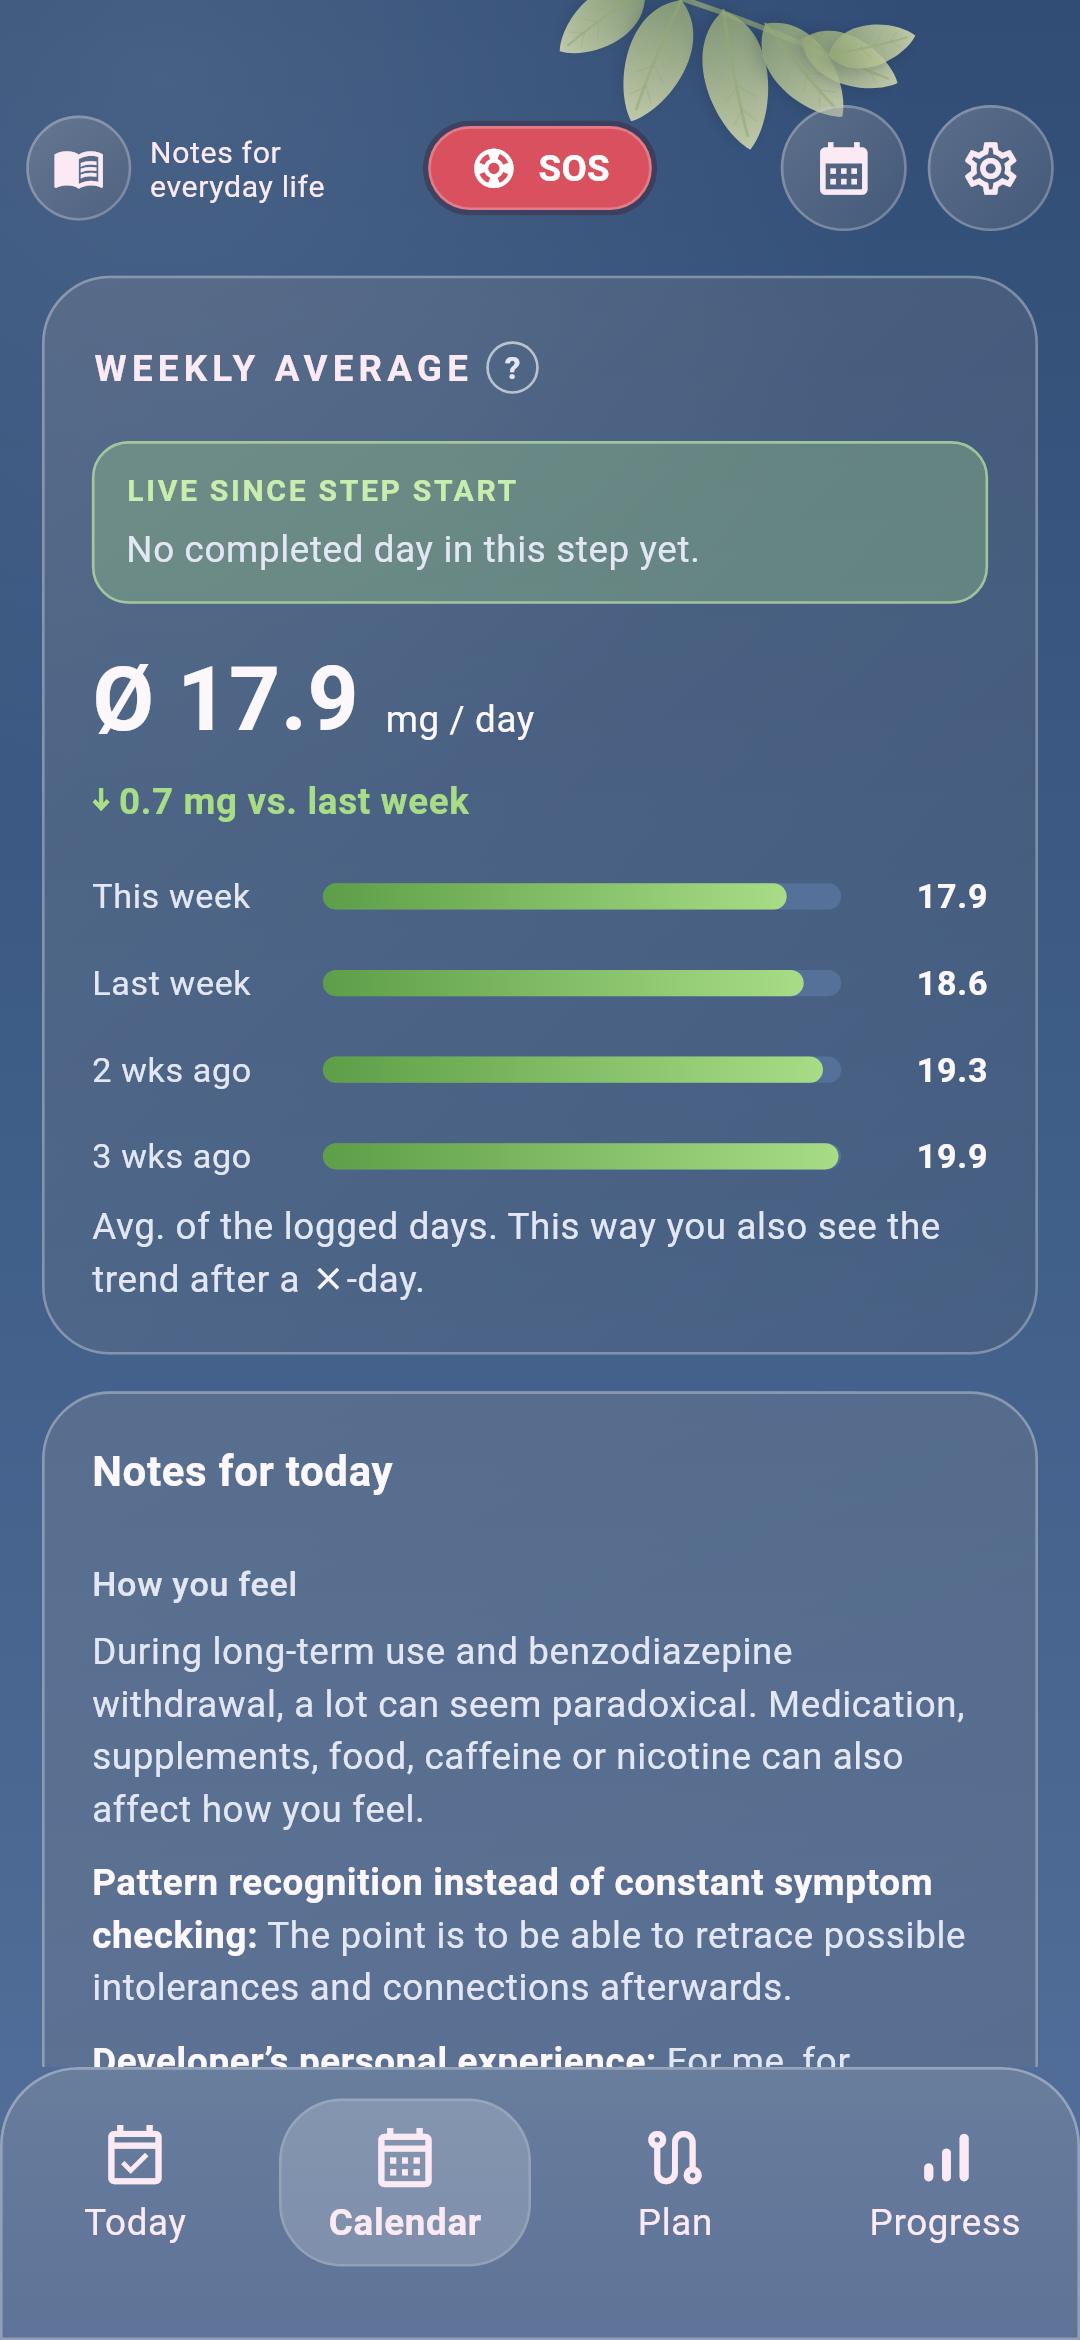
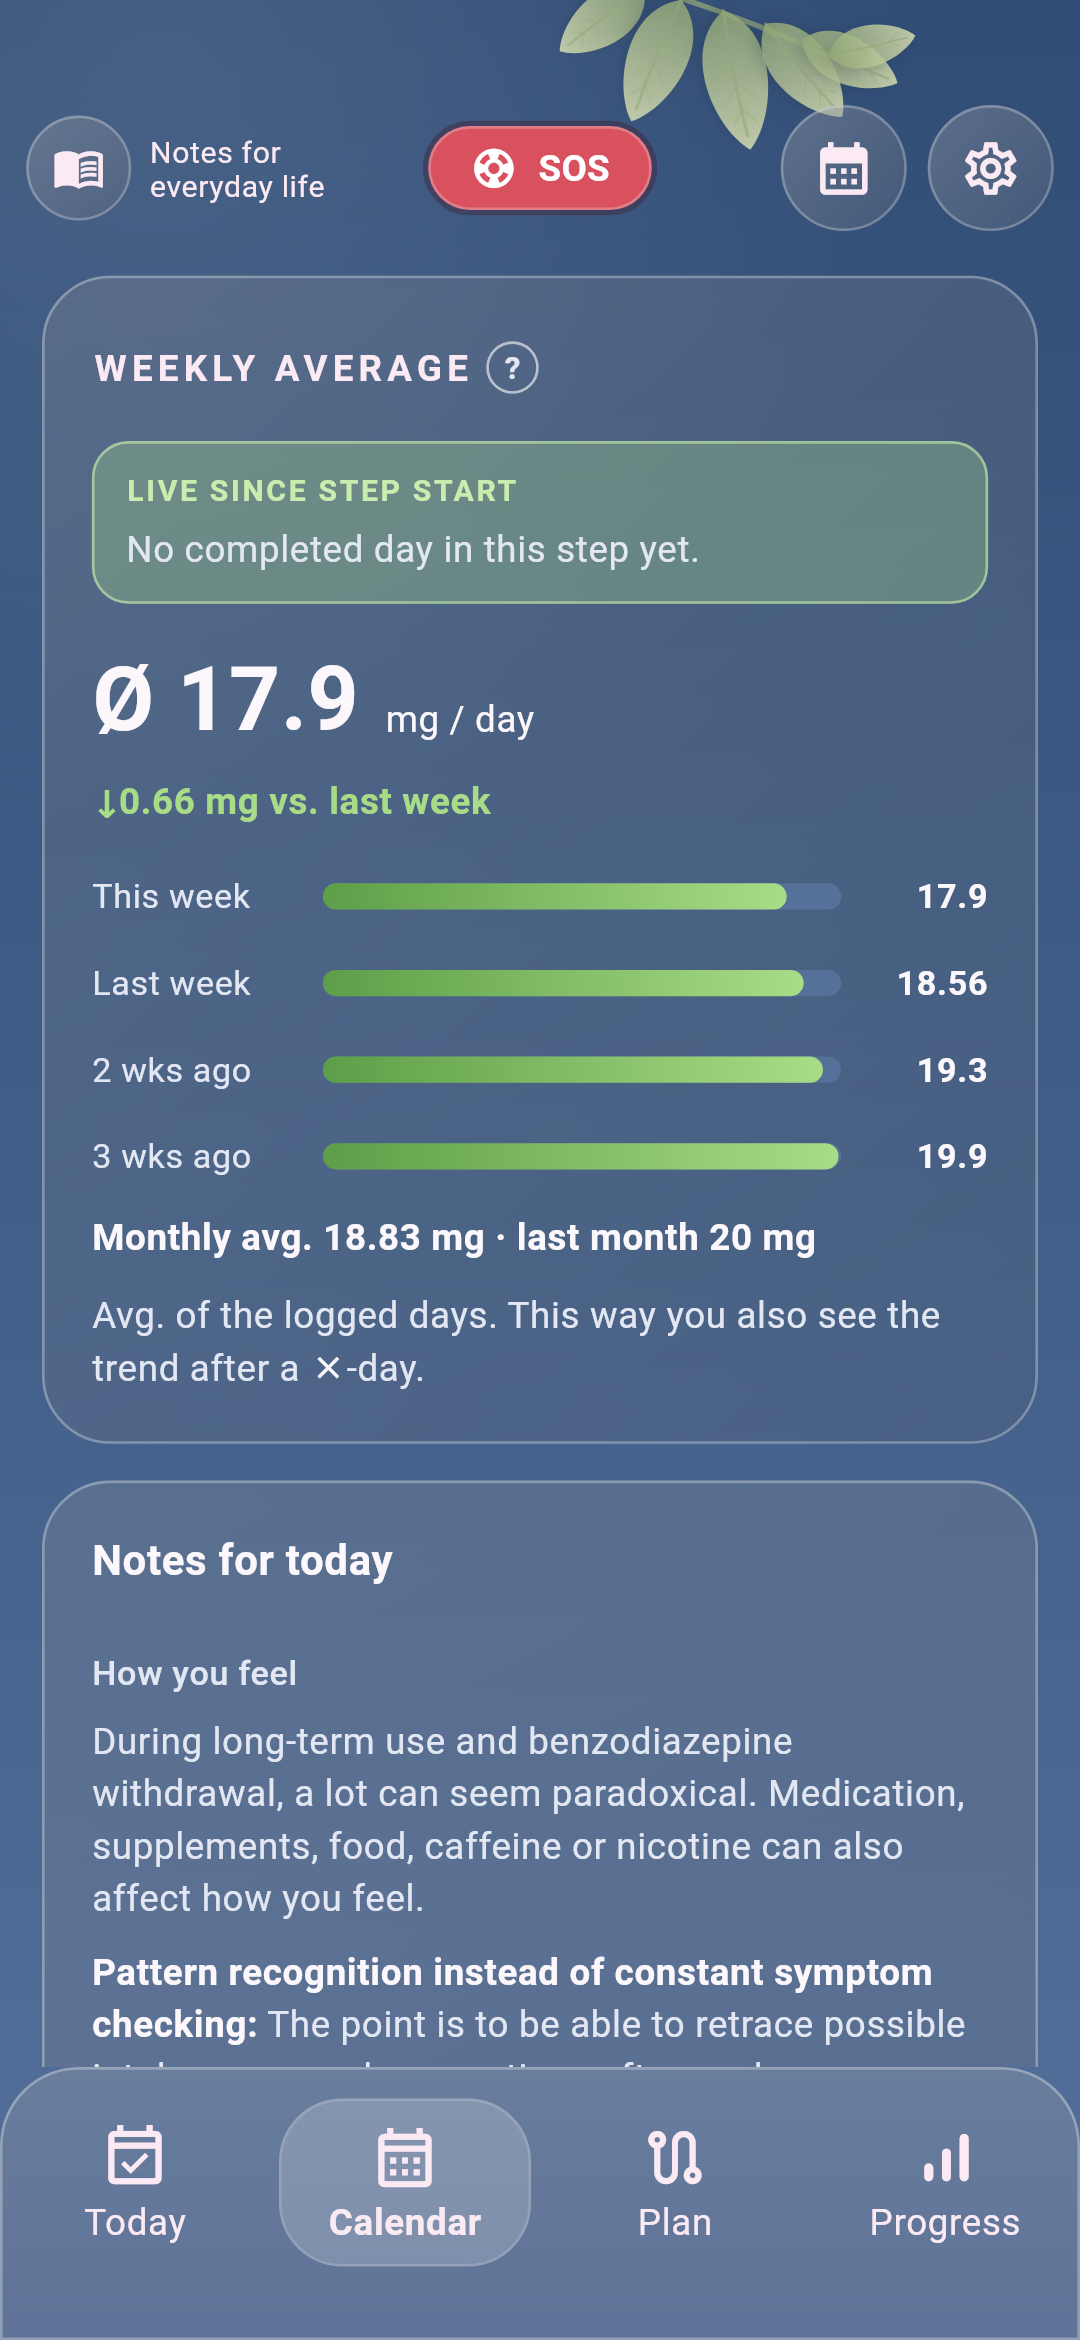
README: neues Bild Wochen- und Monatsdurchschnitt mit 2 Nachkommastellen

diff --git a/README.md b/README.md
@@ -13,9 +13,9 @@ BeNzoTaPer helps you stay on track with your reduction plan: it shows which dose
 <p align="center">
   <img src="docs/images/plan_daily_0.1.png" width="260" alt="Plan with daily steps of 0.1 mg">
   <img src="docs/images/plan_daily_0.01.png" width="260" alt="Plan with daily steps of 0.01 mg">
-  <img src="docs/images/weekly_average.png" width="260" alt="Weekly average">
+  <img src="docs/images/weekly_average.png" width="260" alt="Weekly and monthly average">
 </p>
-<p align="center"><sub>Daily microtapering in 0.1 mg and 0.01 mg steps, and the weekly average. Test data (diazepam, starting at 20 mg).</sub></p>
+<p align="center"><sub>Daily microtapering in 0.1 mg and 0.01 mg steps, and the weekly and monthly average (2 decimals). Test data (diazepam, starting at 20 mg).</sub></p>
 
 ---
 
